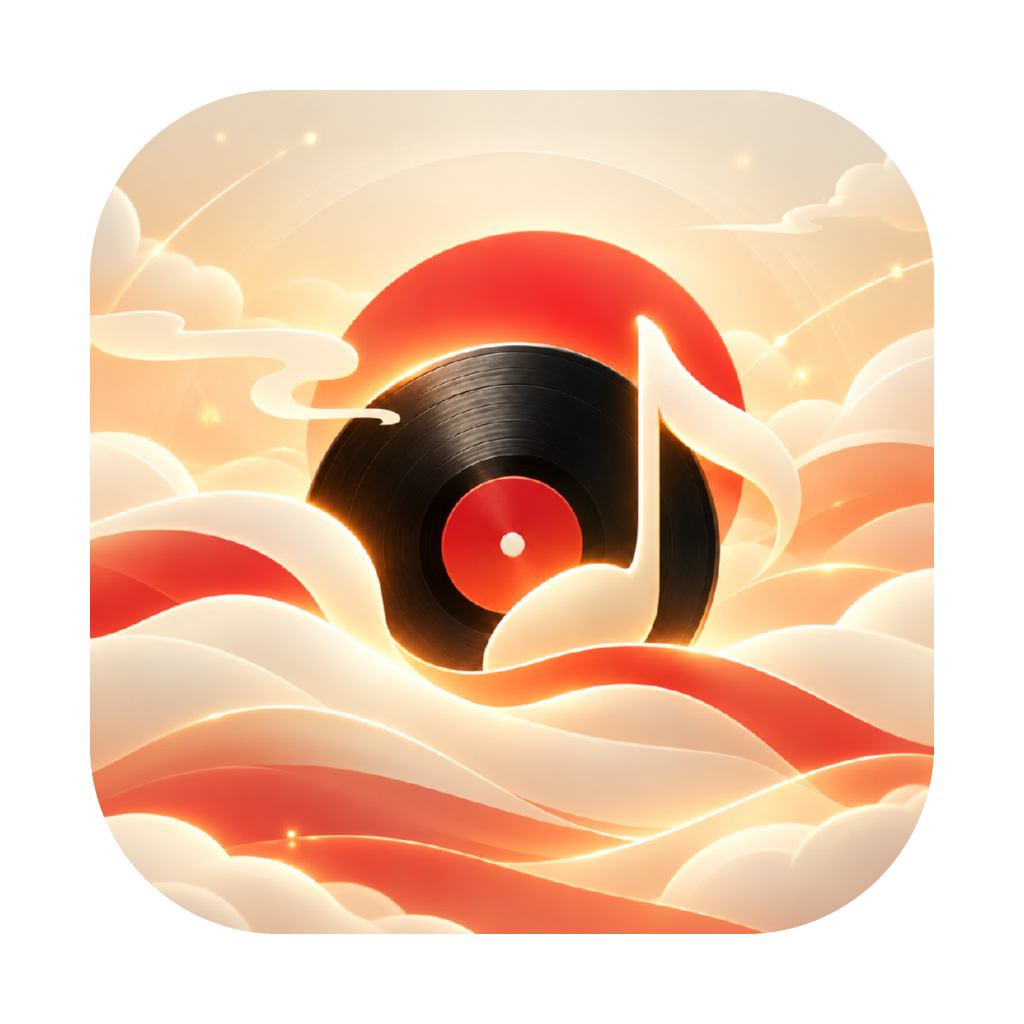
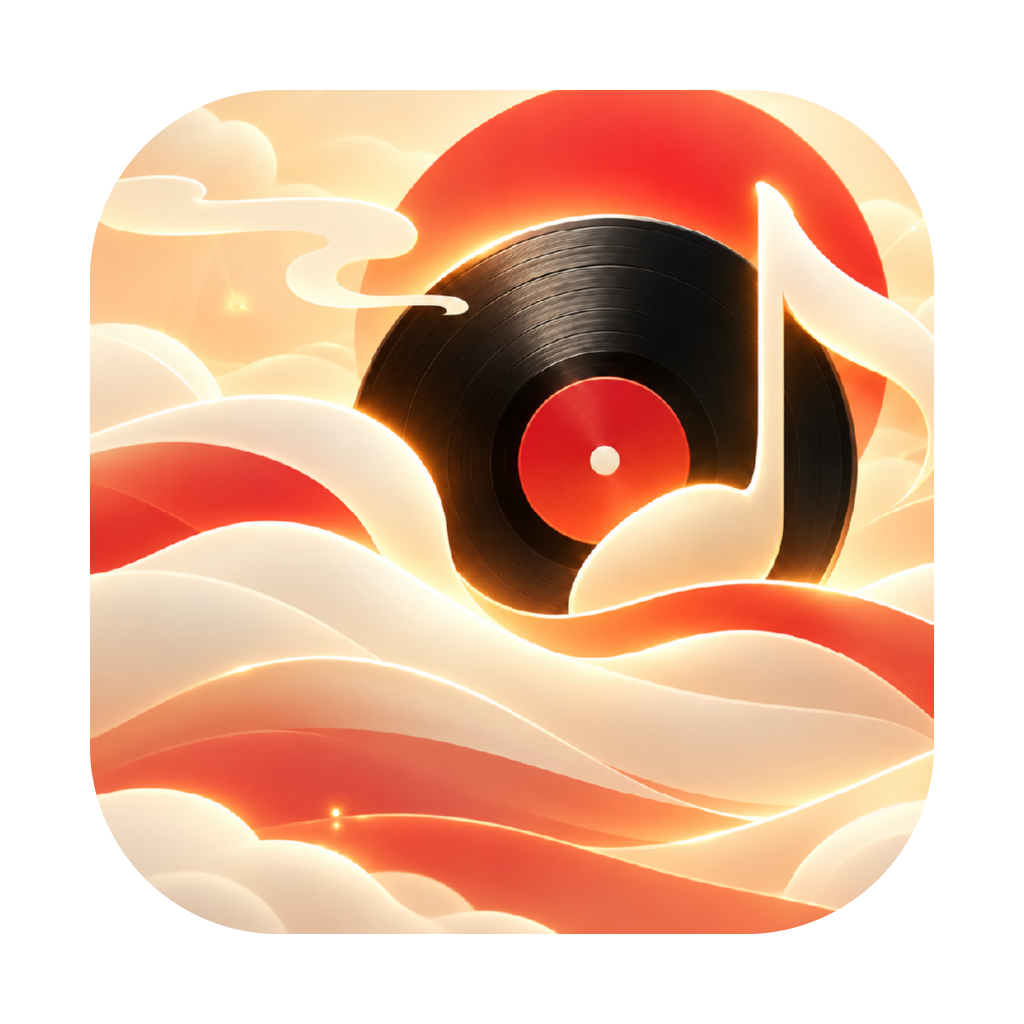
图标：裁掉源图外圈的浅色边缘，让主体占满更多

diff --git a/internal/platform/icon_test.go b/internal/platform/icon_test.go
@@ -229,8 +229,8 @@ func checkSizeStillReadsAsTheSubject(t *testing.T, size int) {
 		t.Errorf("%d：主体（橙红的大圆）只剩 %.1f%% 的不透明像素（要 ≥20%%）——"+
 			"16 尺寸那一档最容不下它，糊过去就是一块底色", size, w*100)
 	}
-	if o < 0.18 {
-		t.Errorf("%d：底色（米色的云）只剩 %.1f%% 的不透明像素（要 ≥18%%）——"+
+	if o < 0.12 {
+		t.Errorf("%d：底色（米色的云）只剩 %.1f%% 的不透明像素（要 ≥12%%）——"+
 			"整张图糊成一种颜色就不是图标了", size, o*100)
 	}
 	if d < 0.035 {
